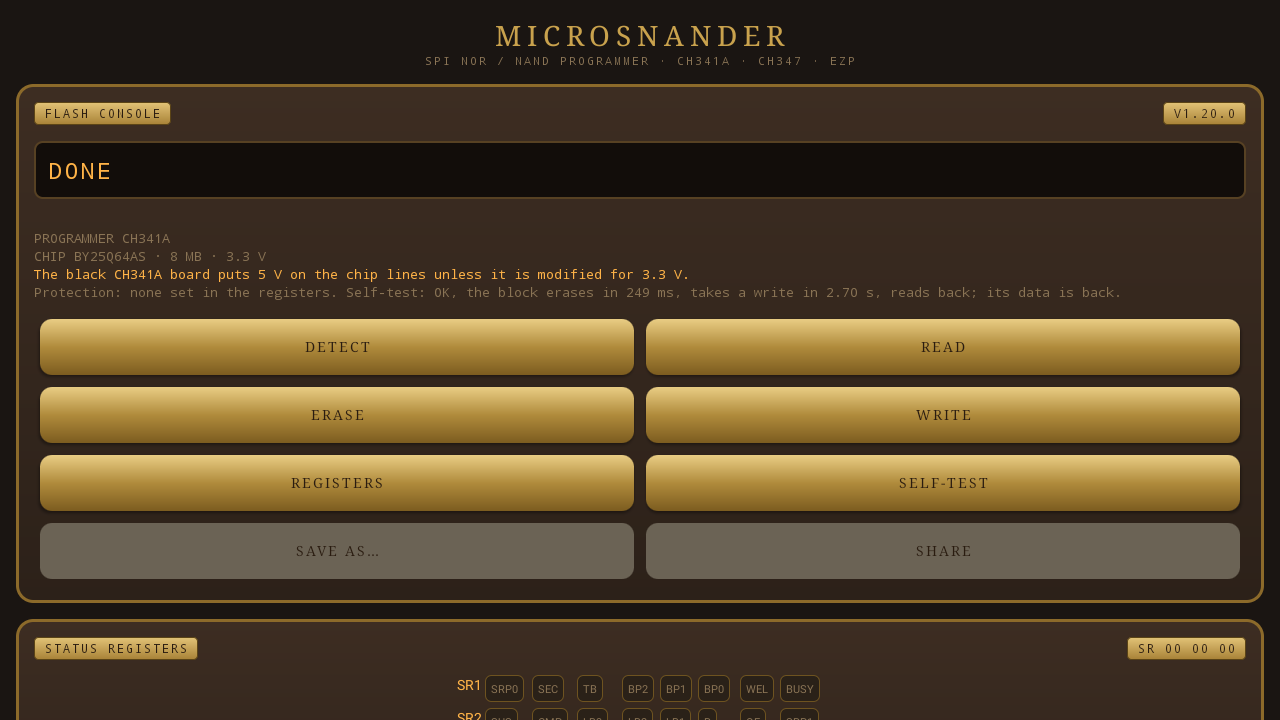
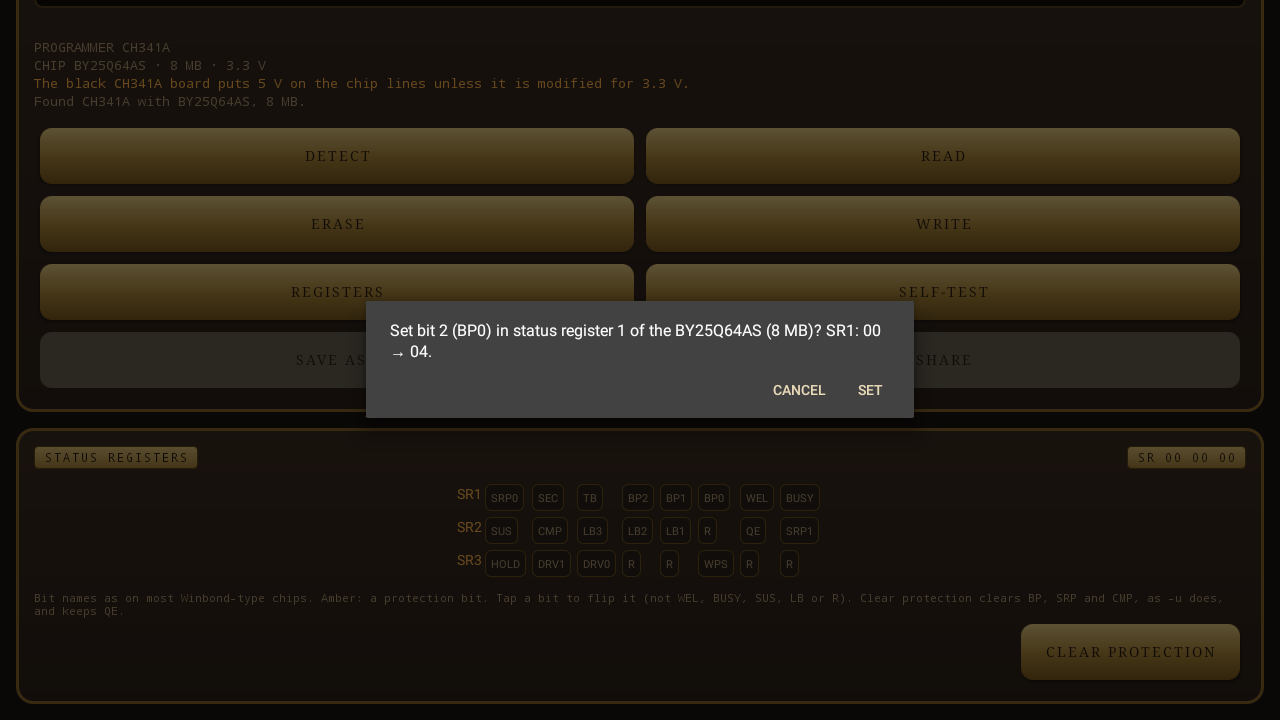
README: screenshots of the hex view and the status register bits (#95)
The web page after a read now shows the Hex view panel under the status
registers. The Android TV box asks before it flips a register bit, and
shows the hex view of the last dump. [skip ci]

diff --git a/README.ru.md b/README.ru.md
@@ -364,8 +364,8 @@ microsnander -O security.bin
 
 <p align="center">
   <img src="screenshots/web-reading.png" alt="MicroSNANDer Web во время чтения: лампы, дисплей, индикаторная линейка, латунные кнопки" width="45%">
-  <img src="screenshots/web-registers.png" alt="MicroSNANDer Web после чтения: ссылка на дамп и лампы битов регистров" width="45%">
   <img src="screenshots/web-selftest.png" alt="MicroSNANDer Web после самотеста: SELF-TEST OK, защита и итог" width="45%">
+  <img src="screenshots/web-registers.png" alt="MicroSNANDer Web после чтения: ссылка на дамп, лампы битов регистров и hex-просмотр дампа" width="45%">
 </p>
 
 ```sh
@@ -473,7 +473,8 @@ Android TV (Android 5.0 и новее, без root; на приставке он
 
 <p align="center">
   <img src="screenshots/android-main.png" alt="MicroSNANDer для Android: дисплей, латунные кнопки" height="360">
-  <img src="screenshots/android-tv.png" alt="MicroSNANDer на приставке Android TV: найдены CH341A и W25Q128, лампы битов регистров" height="360">
+  <img src="screenshots/android-tv.png" alt="MicroSNANDer на приставке Android TV: найдены CH341A и BY25Q64AS; нажатие на лампу бита регистра спрашивает, прежде чем менять бит" height="360">
+  <img src="screenshots/android-hexview.png" alt="MicroSNANDer на приставке Android TV: hex-просмотр последнего дампа с адреса 0x8400" height="360">
 </p>
 
 - Подключите программатор (к телефону — через OTG-переходник; на приставке один из портов может

diff --git a/README.zh-CN.md b/README.zh-CN.md
@@ -312,8 +312,8 @@ microsnander -O security.bin
 
 <p align="center">
   <img src="screenshots/web-reading.png" alt="MicroSNANDer Web 读取中：指示灯、显示屏、进度条、黄铜按钮" width="45%">
-  <img src="screenshots/web-registers.png" alt="MicroSNANDer Web 读取完成：转储链接和状态寄存器各位的指示灯" width="45%">
   <img src="screenshots/web-selftest.png" alt="MicroSNANDer Web 自检之后：SELF-TEST OK、保护状态和结果" width="45%">
+  <img src="screenshots/web-registers.png" alt="MicroSNANDer Web 读取完成：转储链接、状态寄存器各位的指示灯和转储的十六进制视图" width="45%">
 </p>
 
 ```sh
@@ -402,7 +402,8 @@ root；在电视盒子上会出现在主屏幕，可用遥控器操作）。
 
 <p align="center">
   <img src="screenshots/android-main.png" alt="MicroSNANDer Android 版：显示屏、黄铜按钮" height="360">
-  <img src="screenshots/android-tv.png" alt="MicroSNANDer 在 Android 电视盒子上：已识别 CH341A 和 W25Q128，状态寄存器指示灯" height="360">
+  <img src="screenshots/android-tv.png" alt="MicroSNANDer 在 Android 电视盒子上：已识别 CH341A 和 BY25Q64AS；点按状态寄存器指示灯，确认后翻转该位" height="360">
+  <img src="screenshots/android-hexview.png" alt="MicroSNANDer 在 Android 电视盒子上：从 0x8400 起的最近转储十六进制视图" height="360">
 </p>
 
 - 插上编程器（手机需通过 OTG 转接头；电视盒子的某个端口可能只能作为设备端口，请换另一个），并允许

diff --git a/README.md b/README.md
@@ -360,8 +360,8 @@ progress and runs the operations.
 
 <p align="center">
   <img src="screenshots/web-reading.png" alt="MicroSNANDer Web while reading: lamps, display, progress bar, brass buttons" width="45%">
-  <img src="screenshots/web-registers.png" alt="MicroSNANDer Web after a read: dump link and status register lamps" width="45%">
   <img src="screenshots/web-selftest.png" alt="MicroSNANDer Web after a self-test: SELF-TEST OK, the protection and the verdict" width="45%">
+  <img src="screenshots/web-registers.png" alt="MicroSNANDer Web after a read: the dump link, the status register lamps and the hex view of the dump" width="45%">
 </p>
 
 ```sh
@@ -468,7 +468,8 @@ with the remote).
 
 <p align="center">
   <img src="screenshots/android-main.png" alt="MicroSNANDer for Android: display, brass buttons" height="360">
-  <img src="screenshots/android-tv.png" alt="MicroSNANDer on an Android TV box: CH341A and W25Q128 found, status register lamps" height="360">
+  <img src="screenshots/android-tv.png" alt="MicroSNANDer on an Android TV box: CH341A and BY25Q64AS found; a tap on a status register lamp asks before it flips the bit" height="360">
+  <img src="screenshots/android-hexview.png" alt="MicroSNANDer on an Android TV box: the hex view of the last dump at 0x8400" height="360">
 </p>
 
 - Plug the programmer in (through an OTG adapter on a phone; on a TV box one of its ports may
